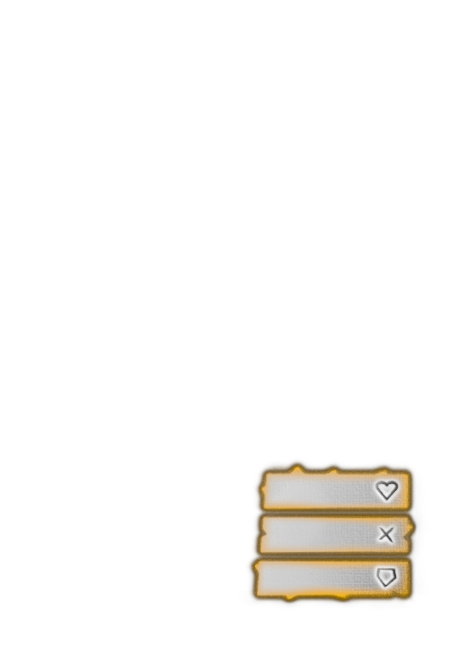
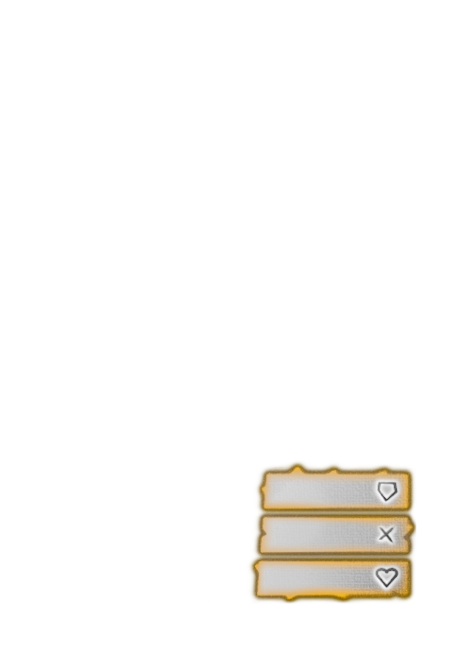
Fix beta stats

Changed region(s): [[0.5305, 0.6897, 0.8842, 0.8996], [0.7074, 0.8996, 0.7368, 0.9295], [0.5895, 0.8996, 0.6189, 0.9295]]

diff --git a/src/Services/ImageProcessing.cs b/src/Services/ImageProcessing.cs
@@ -1329,9 +1329,16 @@ namespace Sanakan.Services
             int def = card.GetDefenceWithBonus();
             int atk = card.GetAttackWithBonus();
 
-            image.Mutate(x => x.DrawText($"{hp}", font, GetOrCreateColor("#000000"), new Point(273, 476)));
-            image.Mutate(x => x.DrawText($"{atk}", font, GetOrCreateColor("#000000"), new Point(269, 520)));
-            image.Mutate(x => x.DrawText($"{def}", font, GetOrCreateColor("#000000"), new Point(264, 564)));
+            var ops = new RichTextOptions(font)
+            {
+                HorizontalAlignment = HorizontalAlignment.Center,
+                Origin = new Point(320, 476)
+            };
+            image.Mutate(x => x.DrawText(ops, $"{def}", GetOrCreateColor("#000000")));
+            ops.Origin = new Point(320, 520);
+            image.Mutate(x => x.DrawText(ops, $"{atk}", GetOrCreateColor("#000000")));
+            ops.Origin = new Point(320, 563);
+            image.Mutate(x => x.DrawText(ops, $"{hp}", GetOrCreateColor("#000000")));
         }
 
         private void ApplyGammaStats(Image<Rgba32> image, Card card)
